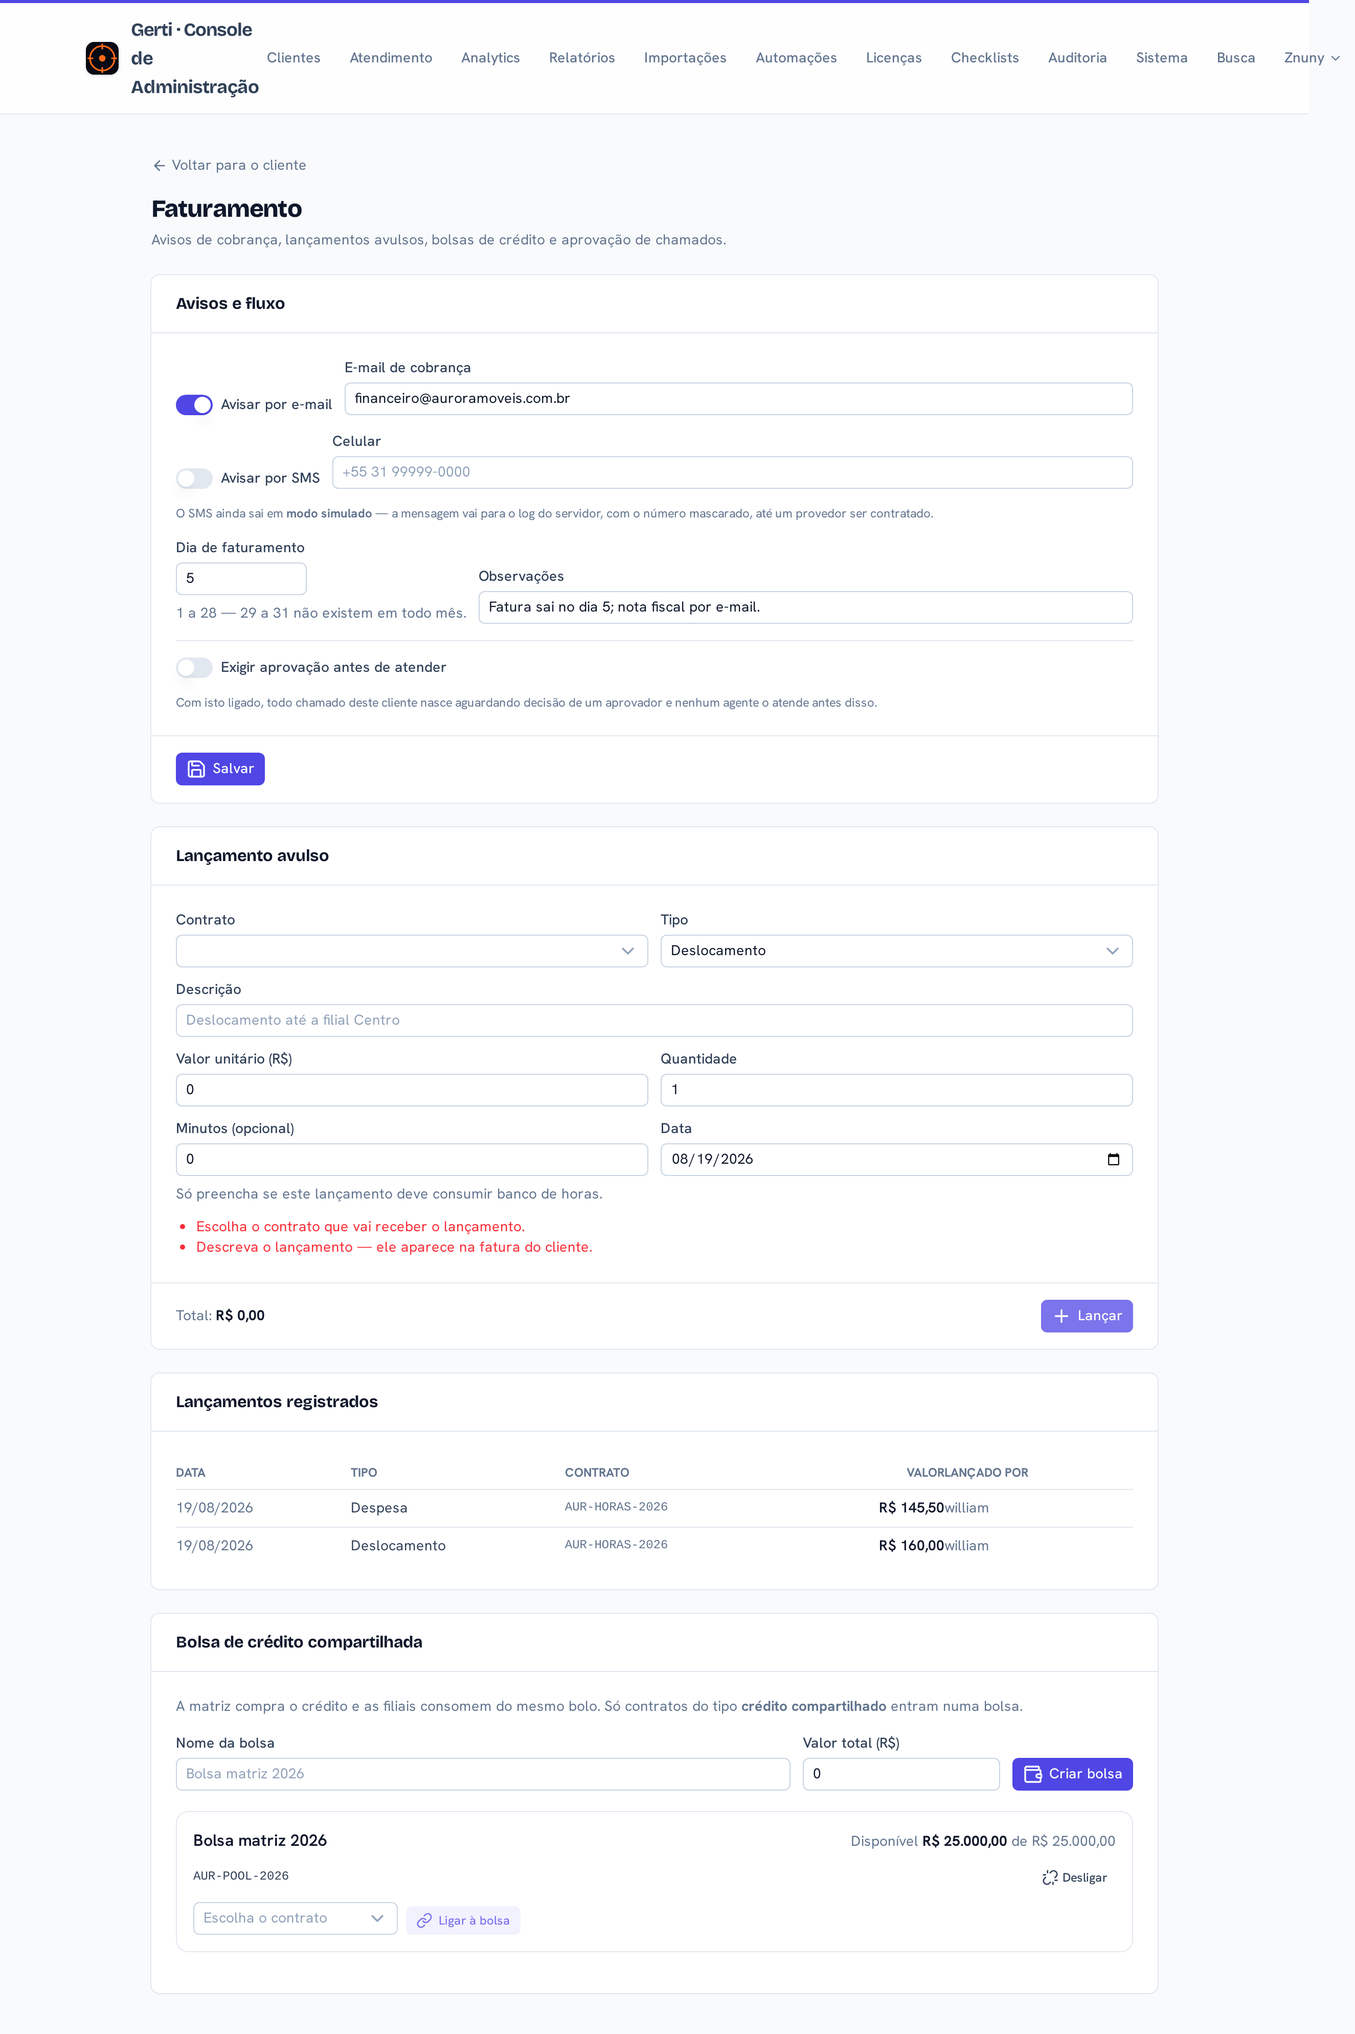
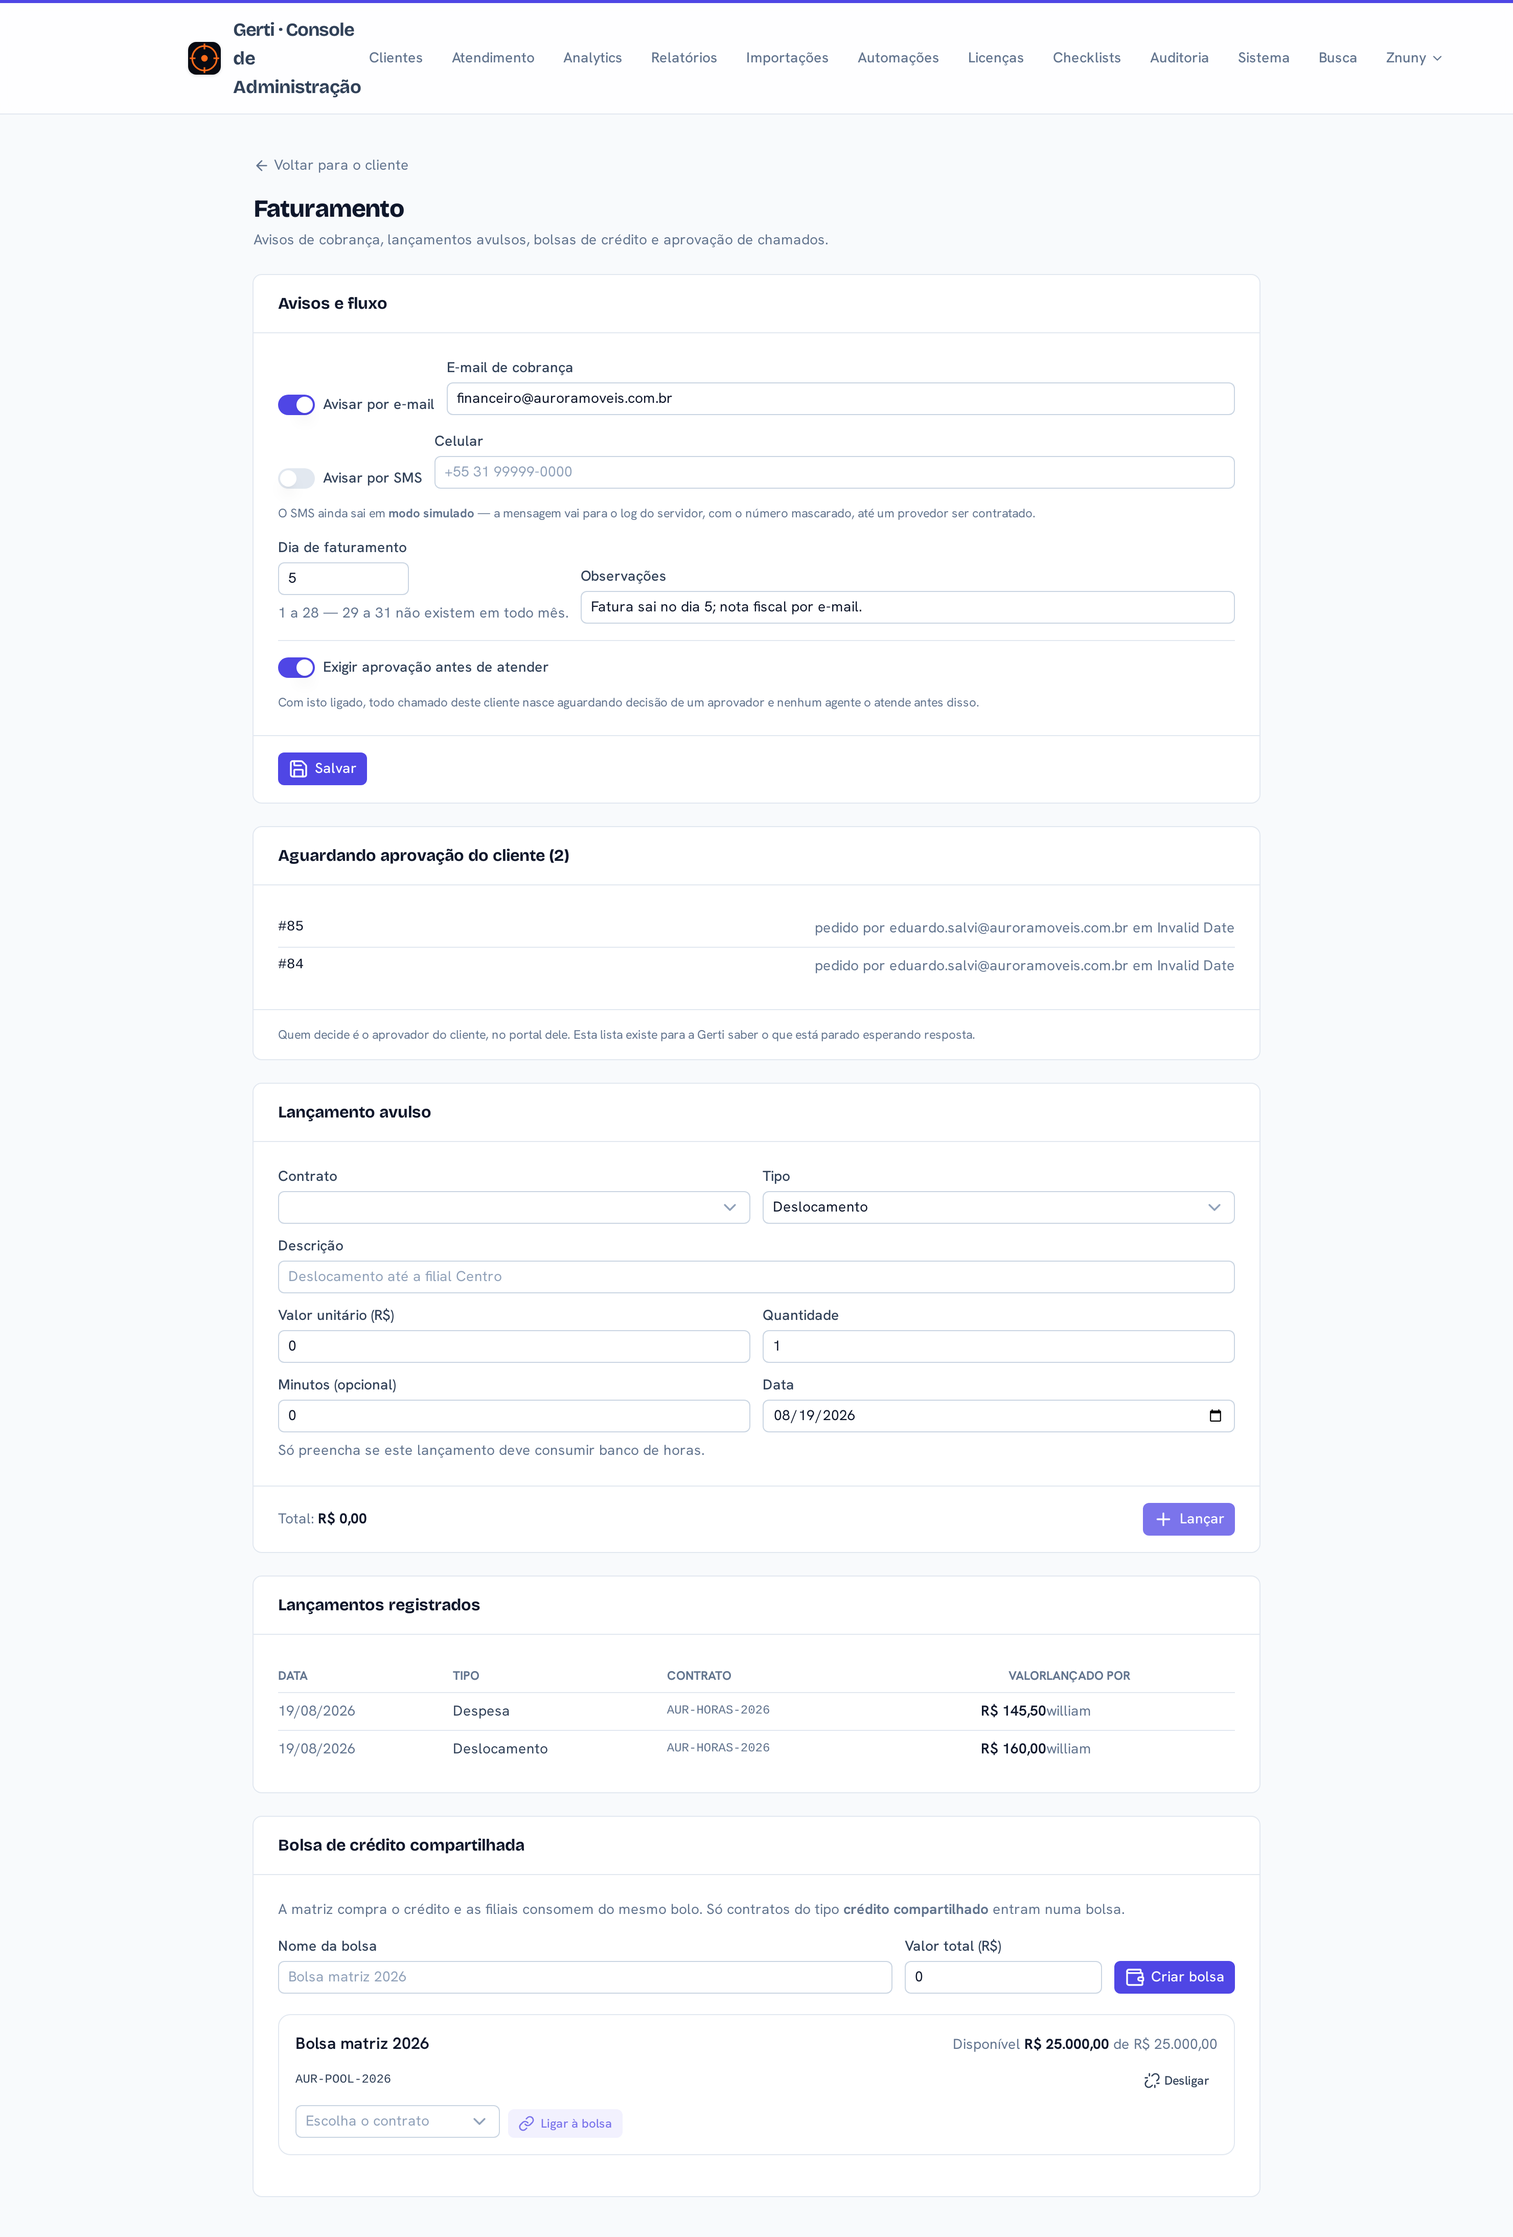
docs: screenshots das telas e mais dois roteiros no documento de entrega
Doze capturas reais do staging (Playwright, 2x, viewport 1480), não mockups —
o quadro de licenças com 7 de 9 agentes, a aba de faturamento com bolsa e
lançamentos, o chamado em `aguardando aprovacao` com o checklist em 2 de 5, e a
fila de aprovação no portal já com a marca da Aurora.

Dois roteiros novos (checklists e nome do calendário) e a numeração dos passos
corrigida. O roteiro de aprovação passou a dizer que o ambiente já está
preparado — a exigência está ligada na Aurora e há dois chamados aguardando —,
com a instrução de como desligar depois.

A abertura foi corrigida para dizer a verdade: 17 dos 18 entregues, 1 adiado
pelo cliente, e a nota de que os checklists tinham ficado de fora e foram
fechados ao conferir requisito por requisito.

No CSS do renderizador, `assets/telas/` ganhou largura cheia: a regra existente
forçava 78 mm, que é tamanho de still de vídeo — uma tela de console nesse
tamanho vira um borrão.

Claude-Session: https://claude.ai/code/session_01LmAqRZnEKJ3z2JnXpEDfF6

diff --git a/apps/admin/pages/clientes/[id]/faturamento.vue b/apps/admin/pages/clientes/[id]/faturamento.vue
@@ -388,24 +388,26 @@ const linkTarget = ref<Record<string, string>>({})
       <table class="w-full text-sm">
         <thead class="text-left text-xs uppercase text-muted">
           <tr>
-            <th class="py-2">Data</th>
-            <th class="py-2">Tipo</th>
-            <th class="py-2">Contrato</th>
-            <th class="py-2 text-right">Valor</th>
+            <th class="py-2 pr-4">Data</th>
+            <th class="py-2 pr-4">Tipo</th>
+            <th class="py-2 pr-4">Contrato</th>
+            <th class="py-2 pr-4 text-right">Valor</th>
             <th class="py-2">Lançado por</th>
           </tr>
         </thead>
         <tbody>
           <tr v-for="c in charges" :key="c.id" class="border-t border-default">
-            <td class="py-2 text-muted">{{ fmtDate(c.occurred_at) }}</td>
-            <td class="py-2">
+            <td class="py-2 pr-4 text-muted">{{ fmtDate(c.occurred_at) }}</td>
+            <td class="py-2 pr-4">
               {{ chargeKindLabel(c.kind) }}
               <UBadge v-if="c.glosa_id" color="warning" variant="soft" size="sm" class="ml-1">
                 contestado
               </UBadge>
             </td>
-            <td class="py-2 font-mono text-xs text-muted">{{ contractCode(c.contract_id) }}</td>
-            <td class="py-2 text-right font-semibold text-highlighted">{{ money(c.amount_brl) }}</td>
+            <td class="py-2 pr-4 font-mono text-xs text-muted">{{ contractCode(c.contract_id) }}</td>
+            <td class="py-2 pr-4 text-right font-semibold text-highlighted">
+              {{ money(c.amount_brl) }}
+            </td>
             <td class="py-2 text-muted">{{ c.recorded_by }}</td>
           </tr>
         </tbody>

diff --git a/docs/pdf/style.css b/docs/pdf/style.css
@@ -326,10 +326,18 @@ main img {
 }
 
 /* Still de vídeo: largura contida, para não roubar a página do texto. */
-main img[src*="assets/"] {
+main img[src*="assets/kleber/"] {
   width: 78mm;
   display: block;
   margin: 3mm 0 1.5mm 0;
+}
+
+/* Captura de tela: largura CHEIA do texto. A 78mm (tamanho de still de vídeo)
+   uma tela de console vira um borrão — a pessoa precisa ler os rótulos. */
+main img[src*="assets/telas/"] {
+  width: 100%;
+  display: block;
+  margin: 4mm 0 5mm 0;
 }
 
 .legenda {

diff --git a/docs/ENTREGA-RECURSOS-ADMINISTRATIVOS.md b/docs/ENTREGA-RECURSOS-ADMINISTRATIVOS.md
@@ -1,15 +1,21 @@
 # Recursos administrativos — o que mudou, o que assumimos e como testar
 
-Este documento fecha a campanha aberta a partir do seu vídeo. Os 18 requisitos
-que levantamos dele foram executados em seis ondas, todas **no ar no ambiente
-de homologação** e verificadas ao vivo — não apenas em teste automatizado.
+Este documento fecha a campanha aberta a partir do seu vídeo. Dos 18 requisitos
+que levantamos dele, **17 estão entregues** e **1 foi adiado por você mesmo**
+(a integração com inventário externo, R4). Tudo está **no ar no ambiente de
+homologação** e foi verificado ao vivo — não apenas em teste automatizado.
 
 Ele tem três partes, e a segunda é a que mais precisa de você:
 
 1. **O que mudou** — requisito por requisito, com o que dá para ver na tela.
 2. **O que assumimos** — as decisões que tomamos no seu lugar para não parar a
    obra, cada uma com o que muda se você discordar e quanto custa mudar.
-3. **Como testar** — um roteiro para você conferir com as próprias mãos.
+3. **Como testar** — seis roteiros para você conferir com as próprias mãos, com
+   o que esperar em cada passo.
+
+> **Uma correção de percurso, para o registro.** Os checklists (R13b) tinham
+> ficado de fora sem ninguém notar; achamos ao conferir requisito por requisito
+> e fechamos junto com as arestas de calendário. Está tudo aqui.
 
 > **Por que existe a parte 2.** Várias coisas do vídeo admitiam mais de uma
 > leitura, e esperar resposta teria travado tudo. Em vez disso, escolhemos uma
@@ -37,6 +43,8 @@ enxerga e qual é a padrão. Antes, **todo chamado de todo cliente caía na mesm
 fila** (`Raw`), sem como configurar. Agora o chamado nasce onde você definiu, e
 tentar abrir numa fila que não é do cliente é recusado.
 
+![Filas de um cliente, com a padrão marcada](assets/telas/filas-cliente.png)
+
 ### E-mail
 
 **Entrada e saída de e-mail (R9).** A instância **não enviava e-mail nenhum** —
@@ -47,22 +55,42 @@ caixas de entrada e as regras de triagem sem sair do console.
 > agendador interno do Znuny virarem chamados, num laço. Já está resolvido com
 > uma regra de triagem, mas vale saber que existe.
 
+![Administração de e-mail: caixas de entrada, remetentes e regras de triagem](assets/telas/email.png)
+
 ### Relatórios
 
 **Consumo dos últimos ciclos (R18a)** e **relatório executivo mensal em PDF
 (R18b)**, com o que foi consumido, os principais serviços e o resumo do
 período — o entregável que você manda para o cliente todo mês.
 
+![Relatório executivo mensal, pronto para enviar ao cliente](assets/telas/relatorios.png)
+
 ### Configuração da plataforma
 
 **Atividades recorrentes (R11).** "Toda segunda às 8h" abre o chamado sozinho.
 Ele não abre chamados retroativos ao cadastrar, e rodar duas vezes não duplica.
 
+![Atividades recorrentes de um cliente, com a agenda dos próximos dias](assets/telas/atividades.png)
+
 **Importação em massa (R8).** São 60 clientes vindos do TIFLUX; não dá um a um.
 A importação tem simulação (que não grava nada) antes de valer.
 
+![Importação com simulação antes de gravar](assets/telas/importacoes.png)
+
 **Permissões por fila (R14).** Um agente pode ler a fila do financeiro sem
 poder mexer nela.
+
+**Feriados e jornada, com nome no calendário (R13a).** Agora dá para chamar o
+calendário de "Feriados de São Paulo" em vez de "Calendar 3" — era uma aresta
+que tinha ficado. São nove calendários, que é o limite do próprio Znuny.
+
+![Jornada de trabalho e feriados, com o nome do calendário](assets/telas/calendario.png)
+
+**Checklists personalizáveis (R13b).** Procedimentos que o técnico segue
+durante o atendimento: "onboarding de estação", "troca de servidor". O modelo é
+seu; a execução é por chamado, com progresso visível.
+
+![Modelos de checklist](assets/telas/checklists.png)
 
 ### Financeiro
 
@@ -97,6 +125,10 @@ parte 2.)*
 **Avisos de cobrança (R6).** Por e-mail e por SMS, configuráveis por cliente.
 *(O SMS ainda sai em modo simulado — ver a parte 2.)*
 
+![Aba de faturamento: avisos, lançamentos avulsos e bolsa compartilhada](assets/telas/faturamento.png)
+
+![Faturas, com boleto e nota fiscal](assets/telas/faturas.png)
+
 ### Fluxo e licenciamento
 
 **Aprovação de chamados (R7).** Com a chave ligada para um cliente, todo chamado
@@ -113,6 +145,8 @@ o total contratado, clientes cadastrados e contratos ativos. Por agente, quais
 módulos ficam ativos. E o caso da Georgia funciona de verdade: **sem o módulo
 de inventário, ela não entra no inventário nem digitando o endereço na barra do
 navegador.**
+
+![O quadro de licenças: 7 de 9 agentes, clientes e contratos ativos](assets/telas/licencas.png)
 
 ---
 
@@ -206,15 +240,26 @@ licenças, conferir o quadro, e aí ligar. O quadro avisa, em letras, enquanto
 estiver desligado.
 → *Quando quiser ligar, avise — é uma configuração.*
 
-**14. Só existem dois módulos: chamados e inventário.**
+**14. Checklist é procedimento da Gerti, não do cliente.**
+O modelo ("onboarding de estação") é cadastrado uma vez e serve para todos os
+clientes; a execução é por chamado. O cliente **não** vê o checklist no portal
+dele — é ferramenta interna do técnico.
+→ *Confere, ou o cliente deveria acompanhar o progresso?*
+
+**15. Editar um modelo não muda checklist já executado.**
+Os itens são copiados na hora de aplicar. Se você renomear um passo amanhã, o
+chamado de ontem continua mostrando o que o técnico realmente viu e marcou.
+→ Mesma lógica do preço registrado no lançamento: o passado não se reescreve.
+
+**16. Só existem dois módulos: chamados e inventário.**
 Você citou WhatsApp e acesso remoto, mas nenhum dos dois existe no produto
 hoje. Um botão "WhatsApp: ativo" seria uma promessa que o sistema não cumpre.
 → *Confere deixar de fora até o recurso existir?*
 
-**15. O total de licenças é definido por você, no console.**
+**17. O total de licenças é definido por você, no console.**
 Não é herdado de contrato externo. Toda mudança fica registrada na auditoria.
 
-**16. MFA: decidimos onde ele mora, e não construímos ainda.**
+**18. MFA: decidimos onde ele mora, e não construímos ainda.**
 As três telas de entrada (Znuny, console e portal do cliente) autenticam contra
 o Znuny. Um segundo fator só no console deixaria a porta do Znuny aberta ao
 lado — pior que não ter, porque parece proteção. Então o MFA vai no Znuny,
@@ -288,10 +333,17 @@ aparece na lista.
 
 ### Roteiro C — a aprovação de chamados (R7)
 
-10. Console → Aurora → **Faturamento** → ligue **"Exigir aprovação antes de
-    atender"** e salve.
+> **Já deixamos preparado.** A exigência de aprovação está **ligada** para a
+> Aurora e há **dois chamados aguardando decisão**, para você poder ir direto
+> ao passo 12. Para desligar depois: Console → Aurora → Faturamento → desmarque
+> "Exigir aprovação antes de atender".
 
-11. Portal da Aurora → abra um chamado.
+10. Console → Aurora → **Faturamento**.
+
+✅ **Esperado:** "Exigir aprovação antes de atender" está ligado, e os avisos de
+cobrança por e-mail também.
+
+11. Portal da Aurora → abra um chamado novo.
 
 ✅ **Esperado:** o chamado é criado e volta como **aguardando aprovação**.
 
@@ -301,8 +353,10 @@ aparece na lista.
 ✅ **Esperado:** é um estado real, não um chamado escondido. Nenhum técnico o
 pega antes da decisão. E o relógio de SLA **não** corre nesse estado.
 
-13. No portal, com um usuário **aprovador**, abra **Aprovações** e reprove sem
-    escrever motivo.
+13. No portal, abra **Aprovações** — o item novo no menu.
+
+✅ **Esperado:** os chamados aguardando decisão, com Aprovar e Reprovar. Reprove
+um deles **sem escrever motivo**.
 
 ✅ **Esperado:** recusa. Reprovar sem motivo deixaria o cliente sem saber o que
 fazer a seguir.
@@ -319,30 +373,68 @@ motivo aparece **dentro do chamado**, para o autor ler.
 > Ao terminar, **desligue** a exigência de aprovação para não atrapalhar os
 > outros testes.
 
-### Roteiro D — o licenciamento e o caso da Georgia (R16)
+### Roteiro D — checklists (R13b)
 
-16. Console → **Licenças**.
+16. Console → **Checklists**.
+
+✅ **Esperado:** dois modelos já cadastrados — "Onboarding de estação" e "Troca
+de servidor" — com os passos numerados.
+
+17. Crie um modelo novo escrevendo **um item por linha**. Tente salvar sem
+    nenhum item.
+
+✅ **Esperado:** recusa. Um modelo vazio só seria descoberto depois de aplicado
+a um chamado.
+
+18. Console → **Atendimento** → abra o chamado #84.
+
+✅ **Esperado:** o painel **Checklists** mostra "Onboarding de estação" com 2 de
+5 feitos, os dois primeiros riscados e com o nome de quem marcou.
+
+19. Marque mais um item.
+
+✅ **Esperado:** a barra anda na hora. Recarregue a página: continua marcado.
+
+20. Aplique o **mesmo** modelo de novo no mesmo chamado.
+
+✅ **Esperado:** nada duplica — continua uma lista só.
+
+### Roteiro E — o nome do calendário (R13a)
+
+21. Console → **Znuny → Calendário** → escolha "Calendário 3" e dê um nome,
+    por exemplo "Feriados de São Paulo". Salve.
+
+✅ **Esperado:** o seletor passa a mostrar "Calendário 3 — Feriados de São
+Paulo" em vez de só o número. O calendário **Padrão** não tem campo de nome —
+ele é "o calendário", e o Znuny não guarda nome para ele.
+
+### Roteiro F — o licenciamento e o caso da Georgia (R16)
+
+22. Console → **Licenças**.
 
 ✅ **Esperado:** o quadro com agentes licenciados / total, clientes e contratos
 ativos. E um aviso, em destaque, de que **os módulos ainda não restringem o
 acesso** enquanto a chave estiver desligada.
 
-17. Defina o total como **2** e atribua licença a dois agentes. Tente um
-    terceiro.
+✅ **Esperado:** o quadro já vem preenchido — **7 de 9 agentes**, com os
+clientes e contratos ativos. É um estado de demonstração que deixamos pronto;
+os números reais são você quem define.
 
-✅ **Esperado:** recusa **com a contagem na mensagem** ("2 de 2 em uso").
+23. Reduza o total para **7** e tente atribuir mais uma licença.
+
+✅ **Esperado:** recusa **com a contagem na mensagem** ("7 de 7 em uso").
 Não é um aviso que dá para clicar por cima — o teto é o que você fatura.
 
-18. Tente atribuir um módulo chamado `whatsapp`.
+24. Tente atribuir um módulo chamado `whatsapp`.
 
 ✅ **Esperado:** recusa listando os módulos que existem.
 
-19. Tente reduzir o total para 1.
+25. Tente reduzir o total para 1.
 
 ✅ **Esperado:** recusa pedindo que você revogue antes. O sistema não escolhe
 sozinho quem perde o acesso.
 
-20. **O caso da Georgia.** Peça para ligarmos a chave de licenciamento. Dê a um
+26. **O caso da Georgia.** Peça para ligarmos a chave de licenciamento. Dê a um
     agente só o módulo de **chamados** e, com ele, tente abrir o inventário —
     inclusive **colando o endereço direto na barra do navegador**.
 
@@ -355,7 +447,7 @@ menu escondido: é a porta trancada.
 
 - **Cobrança proporcional por dias** (contrato assinado no meio do mês).
   Ninguém pediu, e inventá-la mudaria valores sem decisão sua.
-- **MFA.** Decidido onde mora, não construído — ver o item 16 da parte 2.
+- **MFA.** Decidido onde mora, não construído — ver o item 18 da parte 2.
 - **WhatsApp e acesso remoto** como módulos. Não existem no produto.
 - **Renovação automática da bolsa de crédito por ciclo.** Se renovasse sozinha,
   um cliente que gastou tudo em maio veria crédito novo em junho sem ter
@@ -365,7 +457,7 @@ menu escondido: é a porta trancada.
 
 ## Um pedido
 
-Se alguma das 16 suposições da parte 2 estiver errada, **quanto antes soubermos,
+Se alguma das 18 suposições da parte 2 estiver errada, **quanto antes soubermos,
 mais barato é**. Todas foram construídas para serem revertidas com um ajuste de
 configuração ou de campo — mas isso vale enquanto não houver dado real em cima
 delas. Depois de faturar um mês inteiro com a regra errada, corrigir deixa de
